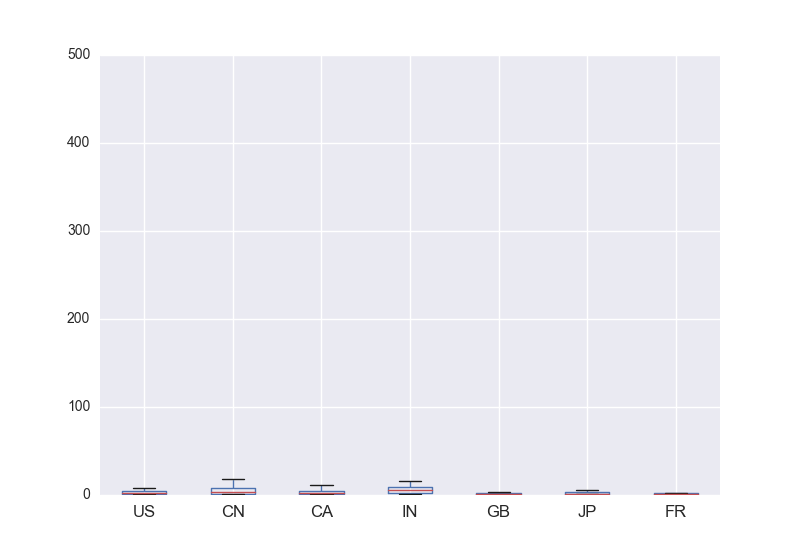
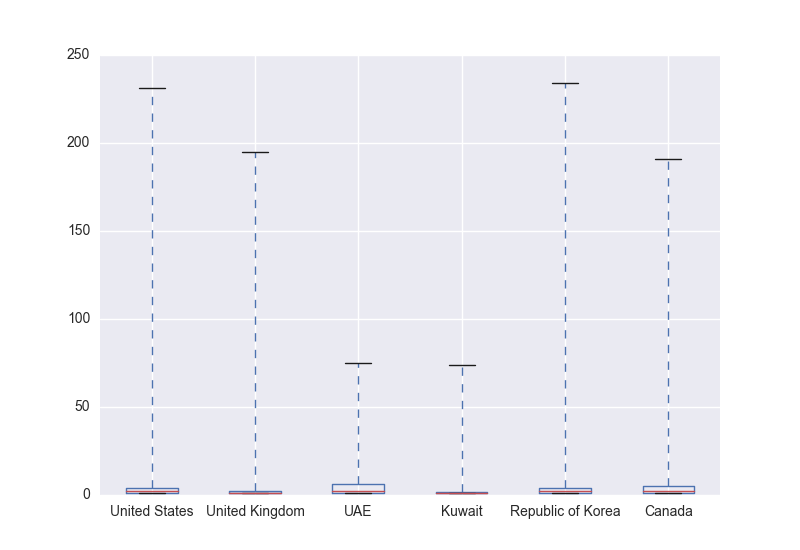
Additional analysis 2

diff --git a/analyze/a1.py b/analyze/a1.py
@@ -49,60 +49,81 @@ def draw_ecdf(df, country):
     fname = os.path.join(dname, 'stores_ecdf.png')
     plt.savefig(fname)
 
-def draw_combined_hist(df, countries)    :
+def draw_combined_hist(df, countries, country_names, winsorize=False):
     #make a combined histogram    
     plt.cla()    
     plt.figure(1, figsize=(5, 3))   
     
-    TRIM = 0.05
-    m = 0    
+    TRIM = 0.05 if winsorize == True else 0.0
+    m = 0   
+    #get the max value amongsts all series that we are going to plot
     for c in countries:
         x = df[c].dropna().values
         x=mstats.winsorize(x,(0, TRIM))
         if max(x) > m:
-            m = max(x)        
+            m = max(x)      
+    #we have the max value, now plot each series, bins are decided based on max
+    i = 0        
     for c in countries:
         x = df[c].dropna().values
         x=mstats.winsorize(x,(0, TRIM))
         bins = np.linspace(0, m, m)   
-        plt.hist(x, bins, alpha=0.5, label=c)
+        plt.hist(x, bins, alpha=0.5, label=country_names[i])
+        i += 1
     
     plt.legend(loc='upper right')
-    fname = os.path.join(glob.OUTPUT_DIR_NAME, glob.EDA_DIR, 'more', 'hist.png')
+    name = 'hist.png' if winsorize == False else 'winsorized_hist.png'
+    fname = os.path.join(glob.OUTPUT_DIR_NAME, glob.EDA_DIR, 'more', name)
     plt.savefig(fname)
-    plt.show()
+    #plt.show()
 
-def draw_combined_boxplot(df):
+def draw_combined_boxplot(df, countries, country_names, winsorize=False):
     plt.cla()
     # Create the boxplot
-    plt.figure(1, figsize=(9, 6))
-    TRIM=95
-    #for c in df.columns[1:]:
-    #    x = df[c].dropna().values
-    #    p = np.percentile(x, TRIM)
-    #    df[df[c] > p]=p
-        #df[c] = mstats.winsorize(x,(0, TRIM))
-    #    print(df[c])
-    ax = df.boxplot(return_type='axes')
-    #ax.set_yscale("log", nonposy='clip')
+    plt.figure(1, figsize=(5, 6))
+    TRIM = 0.05 if winsorize == True else 0.0
+    data = []
+    for c in countries:
+        x = df[c].dropna().values
+        x = mstats.winsorize(x,(0, TRIM))
+        data.append(x)
+    plt.boxplot(data, labels=country_names, whis='range') 
+    #plt.xticks(rotation = 45)
+
     # Save the figure
-    fname = os.path.join(glob.OUTPUT_DIR_NAME, glob.EDA_DIR, 'more', 'boxplot.png')
+    name = 'boxplot.png' if winsorize == False else 'winsorized_boxplot.png'
+    fname = os.path.join(glob.OUTPUT_DIR_NAME, glob.EDA_DIR, 'more', name)
     plt.savefig(fname)        
            
 def explore_distribution_across_countries(df):
-    countries = ['US', 'CN', 'CA', 'IN', 'GB', 'JP', 'FR']
-    
+    countries = ['US', 'GB', 'AE', 'KW', 'KR', 'CA']
+                 
+    country_names = ['United States',        'United Kingdom', 
+                     'UAE', 'Kuwait', 
+                     'Republic of Korea',    'Canada']   
+                     
     df3 = pd.DataFrame(columns=countries)
     
     #kind of kludgy way of doing this but ok..
     max_l = 0
+    city_w_max_stores = []
+    count_in_city_w_max_stores = []
     for country in countries:
         df2 = df[df['country'] == country]
         distribution = df2['city'].value_counts()
         l = len(distribution)
         if l > max_l:
-            max_l = l
-            
+            max_l = l   
+        glob.log.info('Max number of stores (%s, %d)' %(distribution.index[0], distribution.ix[0])) 
+        city_w_max_stores.append(distribution.index[0])
+        count_in_city_w_max_stores.append(distribution.ix[0])
+    df_temp = pd.DataFrame(columns = ['country', 'city_with_most_starbucks_stores', 'count_in_city_with_most_stores'])
+    df_temp['country'] = country_names
+    df_temp['city_with_most_starbucks_stores'] = city_w_max_stores
+    df_temp['count_in_city_with_most_stores'] = count_in_city_w_max_stores
+    fname = os.path.join(glob.OUTPUT_DIR_NAME, glob.EDA_DIR, 'more', 'cities_withmost_stores.csv')
+    df_temp.to_csv(fname, index=False)    
+    
     for country in countries:
         df2 = df[df['country'] == country]
         distribution = df2['city'].value_counts()
@@ -120,11 +141,13 @@ def explore_distribution_across_countries(df):
         draw_hist(df3, country)
         draw_ecdf(df3, country)       
     
-    #combined histogram
-    draw_combined_hist(df3, countries)
+    #combined histogram, followed by a winsorized version
+    draw_combined_hist(df3, countries, country_names)
+    draw_combined_hist(df3, countries, country_names, True)
     
-    #make a boxplot
-    draw_combined_boxplot(df3)
+    #make a boxplot,followed by a winsorized version
+    draw_combined_boxplot(df3, countries, country_names)
+    draw_combined_boxplot(df3, countries, country_names, True)
            
 def run():
     glob.log.info('about to begin additional analysis...')
